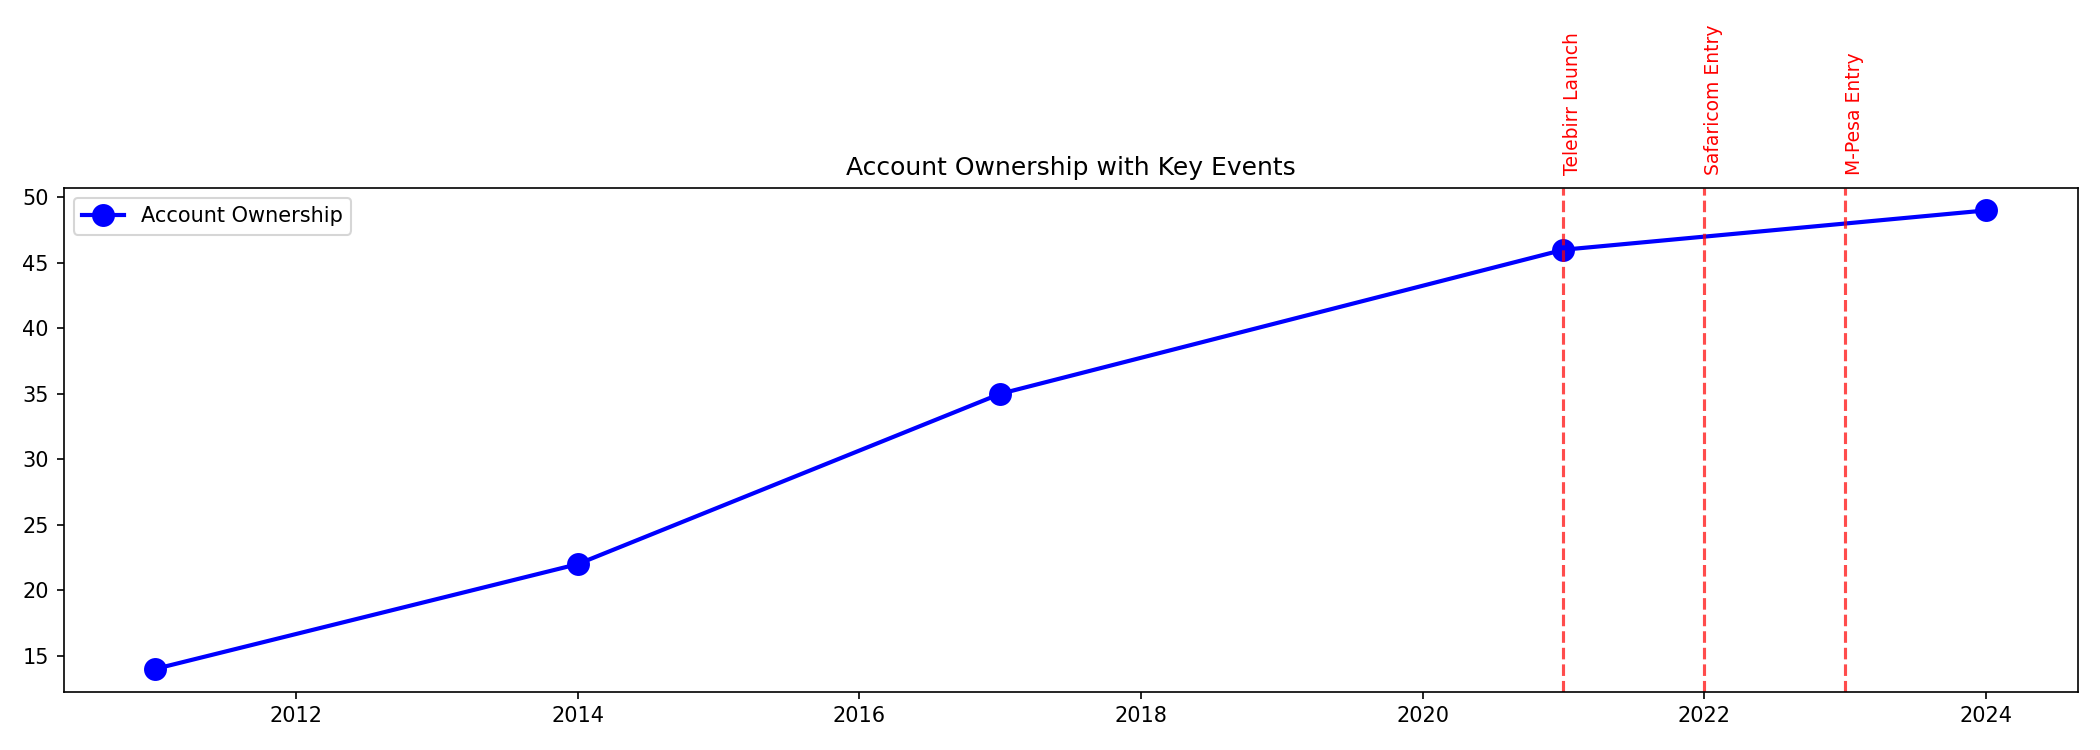
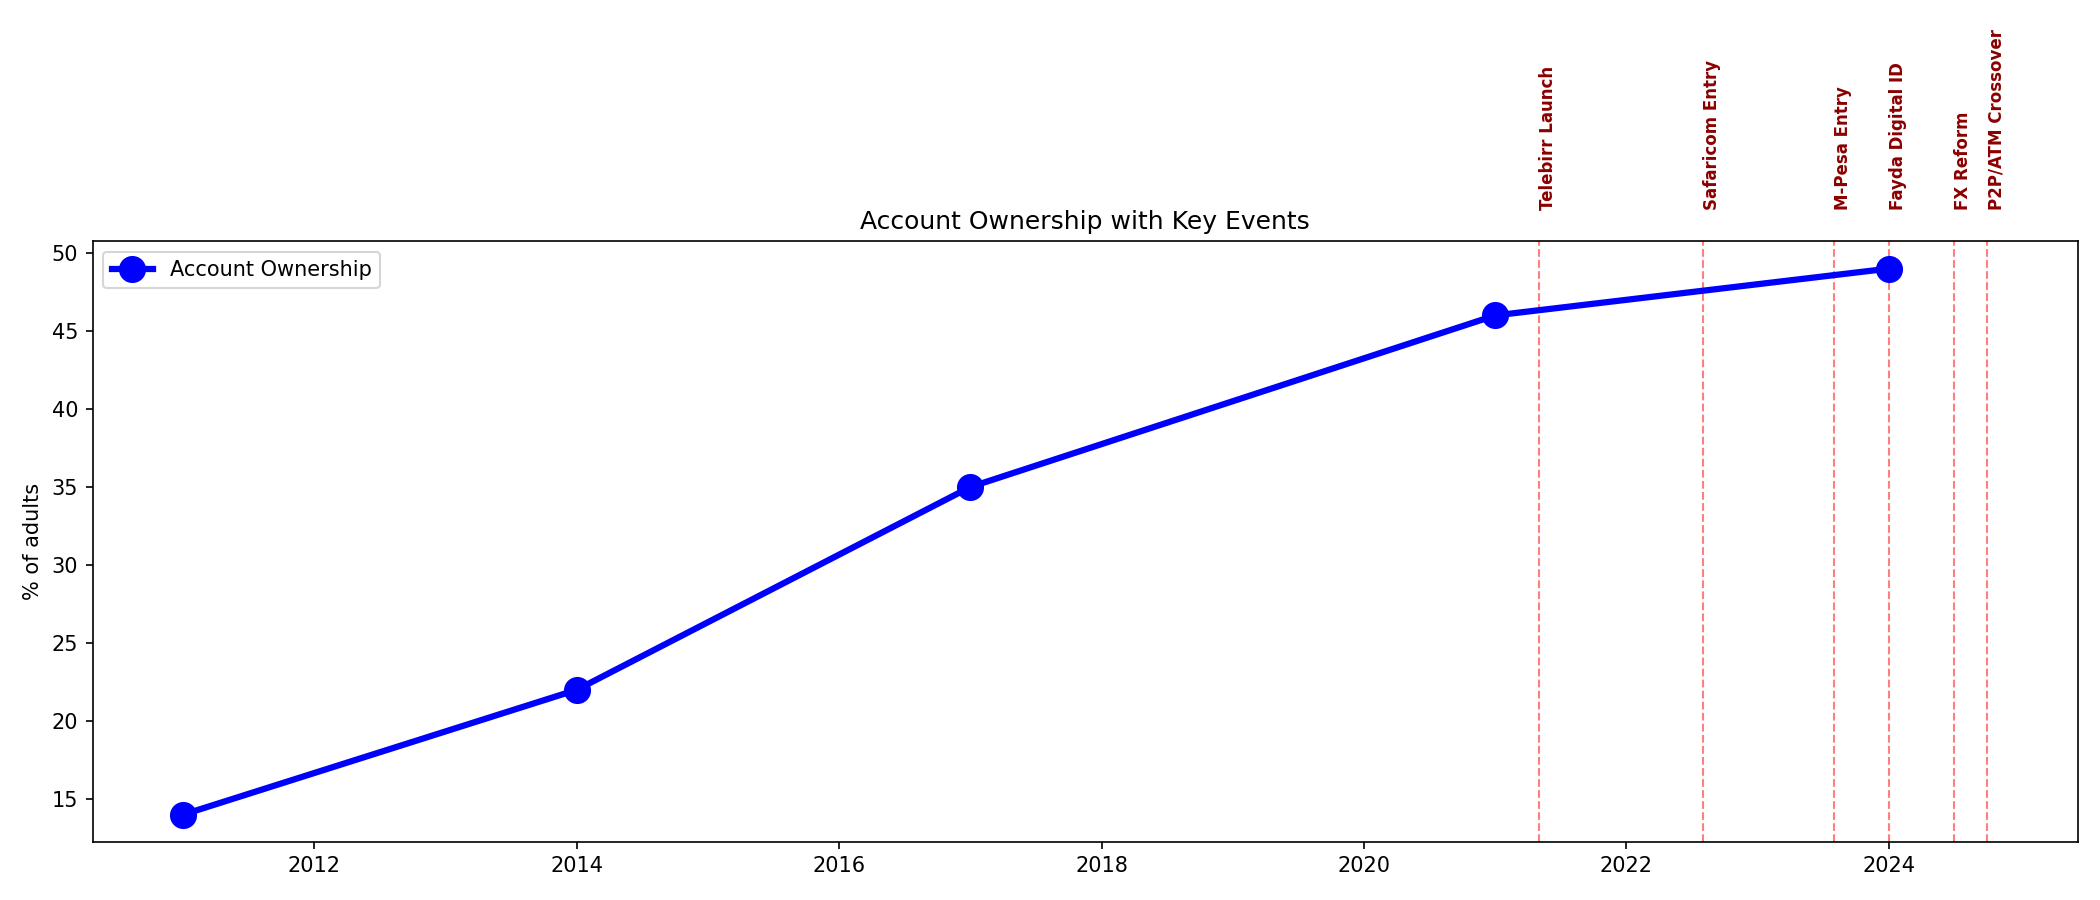
feat: complete EDA with 3 charts, 7 insights, modular src, enrichment log

diff --git a/notebooks/task2_eda_full.py b/notebooks/task2_eda_full.py
@@ -1,0 +1,110 @@
+import pandas as pd
+import numpy as np
+import matplotlib.pyplot as plt
+import seaborn as sns
+import warnings
+warnings.filterwarnings('ignore')
+
+df = pd.read_csv('data/raw/ethiopia_fi_unified_data.csv')
+
+# 1. Dataset Overview
+print("=== 1. DATASET OVERVIEW ===")
+print(f"Total records: {len(df)}")
+print(f"Record types:\n{df['record_type'].value_counts()}")
+print(f"\nPillars:\n{df['pillar'].value_counts()}")
+print(f"\nConfidence levels:\n{df['confidence'].value_counts()}")
+print(f"\nDate range: {df['observation_date'].min()} to {df['observation_date'].max()}")
+
+# 2. Temporal Coverage
+print("\n=== 2. TEMPORAL COVERAGE ===")
+obs = df[df['record_type'] == 'observation']
+for ind in obs['indicator_code'].unique():
+    ind_data = obs[obs['indicator_code'] == ind]
+    print(f"{ind}: {len(ind_data)} points, years: {ind_data['observation_date'].unique()}")
+
+# 3. Access Analysis
+print("\n=== 3. ACCESS ANALYSIS ===")
+access = obs[obs['pillar'] == 'ACCESS']
+print(access[['indicator_code', 'value_numeric', 'observation_date']])
+
+# Chart 1: Account Ownership
+years = [2011, 2014, 2017, 2021, 2024]
+values = [14, 22, 35, 46, 49]
+growth = [0, 8, 13, 11, 3]
+
+fig, axes = plt.subplots(1, 2, figsize=(14, 5))
+axes[0].plot(years, values, 'o-', color='blue', linewidth=2, markersize=10)
+axes[0].set_title('Account Ownership Rate (%)')
+axes[0].set_ylabel('% of adults')
+for y, v in zip(years, values):
+    axes[0].text(y, v+2, f'{v}%', ha='center', fontweight='bold')
+
+axes[1].bar([f'{years[i]}-{years[i+1]}' for i in range(len(years)-1)], growth[1:], color='steelblue')
+axes[1].set_title('Growth Between Surveys (pp)')
+axes[1].axhline(3, color='red', linestyle='--', label='2021-24: +3pp')
+axes[1].legend()
+plt.tight_layout()
+plt.savefig('reports/access_analysis.png', dpi=150)
+print("Chart 1 saved")
+
+# 4. Events Timeline
+events_dict = {
+    '2021-05': 'Telebirr Launch',
+    '2022-08': 'Safaricom Entry', 
+    '2023-08': 'M-Pesa Entry',
+    '2024-01': 'Fayda Digital ID',
+    '2024-07': 'FX Reform',
+    '2024-10': 'P2P/ATM Crossover'
+}
+
+fig, ax = plt.subplots(figsize=(14, 6))
+ax.plot(years, values, 'o-', color='blue', linewidth=3, markersize=12, label='Account Ownership', zorder=5)
+for date_str, name in events_dict.items():
+    yr = float(date_str.split('-')[0]) + (float(date_str.split('-')[1])-1)/12
+    ax.axvline(yr, color='red', linestyle='--', alpha=0.5, linewidth=1)
+    ax.text(yr, 53, name, rotation=90, fontsize=8, color='darkred', fontweight='bold')
+ax.set_title('Account Ownership with Key Events')
+ax.set_ylabel('% of adults')
+ax.legend()
+plt.tight_layout()
+plt.savefig('reports/events_timeline.png', dpi=150)
+print("Chart 2 saved")
+
+# 5. Usage Analysis
+print("\n=== 4. USAGE ANALYSIS ===")
+usage = obs[obs['pillar'] == 'USAGE']
+print(usage[['indicator_code', 'value_numeric', 'observation_date']])
+
+# Chart 3: Indicators comparison
+fig, ax = plt.subplots(figsize=(10, 6))
+indicators = ['ACC_OWNERSHIP', 'ACC_MM_ACCOUNT', 'USG_P2P_COUNT']
+colors = ['blue', 'green', 'orange']
+for ind, col in zip(indicators, colors):
+    ind_data = obs[obs['indicator_code'] == ind]
+    if len(ind_data) > 0:
+        ax.plot(ind_data['observation_date'], ind_data['value_numeric'], 'o-', label=ind, color=col)
+ax.set_title('Key Financial Inclusion Indicators')
+ax.legend()
+plt.tight_layout()
+plt.savefig('reports/indicators_comparison.png', dpi=150)
+print("Chart 3 saved")
+
+# 6. Key Insights
+print("\n=== 5. KEY INSIGHTS ===")
+print("1. Account ownership grew 35pp (14% to 49%) over 13 years but slowed to only +3pp in 2021-24")
+print("2. The 2021-24 slowdown happened despite Telebirr adding 54M+ users - registered accounts ≠ active usage")
+print("3. Mobile money account ownership reached only 9.45% by 2024, far below total account ownership")
+print("4. Six major events occurred in 2021-2024 creating a concentrated period of change")
+print("5. Data sparsity (only 5 Findex points) limits forecasting precision - wide uncertainty is appropriate")
+print("6. Impact links provide modeled relationships but need validation against observed changes")
+print("7. Gender gap data exists but is incomplete - limits equity analysis")
+
+# 7. Data Limitations
+print("\n=== 6. DATA LIMITATIONS ===")
+print("- Only 5 Findex survey points over 13 years")
+print("- No sub-national or regional disaggregation")
+print("- Impact links are modeled, not directly observed")
+print("- Operator user numbers may not match survey-based Findex")
+print("- Missing data on rural/urban splits and income levels")
+
+print("\nDone! All charts saved.")

diff --git a/src/data_utils.py b/src/data_utils.py
@@ -1,0 +1,26 @@
+"""Data utilities for financial inclusion analysis."""
+import pandas as pd
+import os
+
+def load_data(filepath='data/raw/ethiopia_fi_unified_data.csv'):
+    """Load the unified financial inclusion dataset."""
+    if not os.path.exists(filepath):
+        raise FileNotFoundError(f"File not found: {filepath}")
+    try:
+        df = pd.read_csv(filepath)
+        print(f"Loaded {len(df)} records")
+        return df
+    except Exception as e:
+        raise ValueError(f"Error reading {filepath}: {e}")
+
+def get_records_by_type(df, record_type):
+    """Filter records by type."""
+    return df[df['record_type'] == record_type]
+
+def summarize_schema(df):
+    """Print schema summary."""
+    print(f"Records: {len(df)}")
+    print(f"Types: {df['record_type'].value_counts().to_dict()}")
+    print(f"Pillars: {df['pillar'].value_counts().to_dict()}")
+    print(f"Date range: {df['observation_date'].min()} to {df['observation_date'].max()}")
+    return df